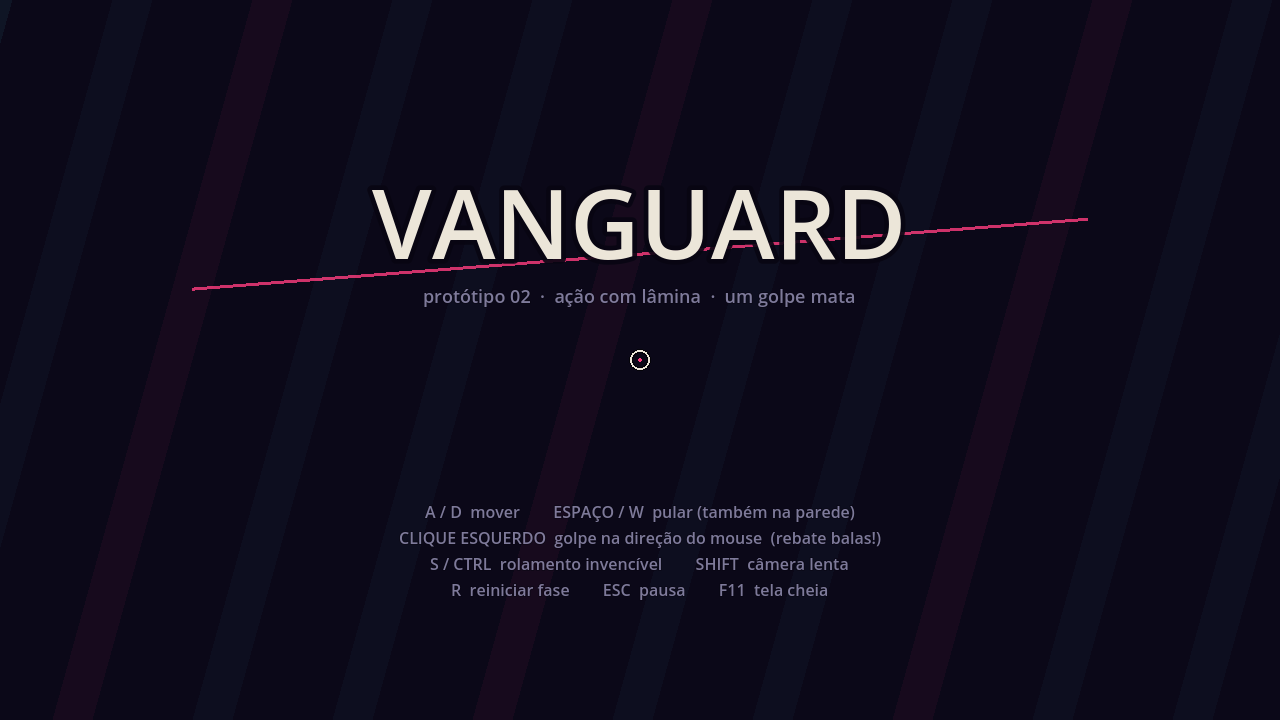
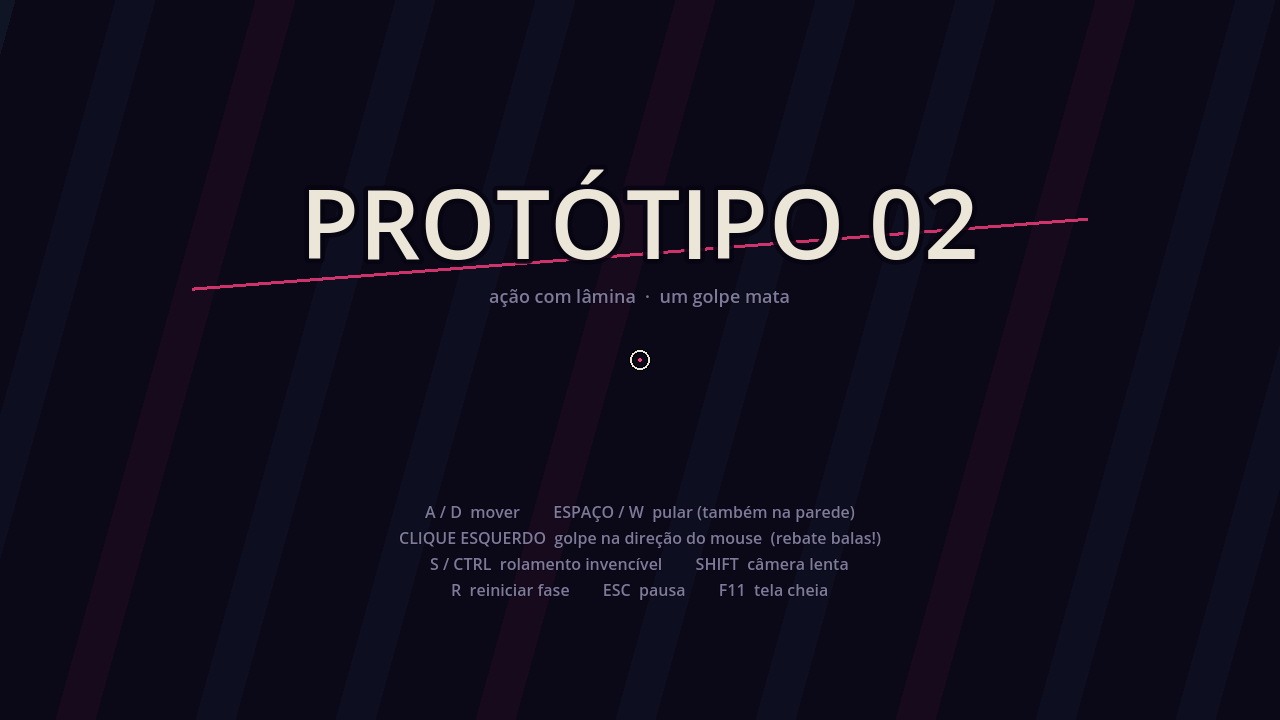
Remove nome da equipe do jogo; título provisório configurável
Claude-Session: https://claude.ai/code/session_01LgXTLtmZoFV2uSYN8TKYeu

Changed region(s): [[0.2188, 0.2444, 0.7812, 0.3667], [0.3125, 0.3972, 0.6875, 0.4278]]

diff --git a/README.md b/README.md
@@ -1,4 +1,6 @@
-# VANGUARD — Protótipo 02 (Godot 4)
+# Projeto — Protótipo 02 (Godot 4)
+
+> Nome do jogo ainda não definido — para trocar, mude `GAME_TITLE` em `scripts/hud.gd` e `config/name` no `project.godot`.
 
 Plataforma de ação 2D no estilo **"um golpe mata"**: lâmina na direção do mouse,
 rebater balas, câmera lenta, rolamento invencível e reinício instantâneo.
